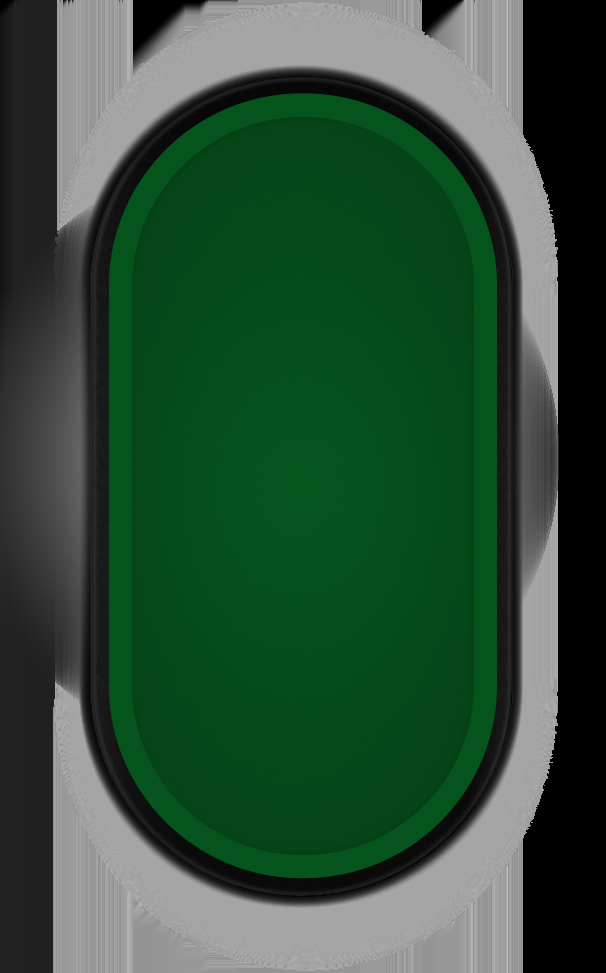
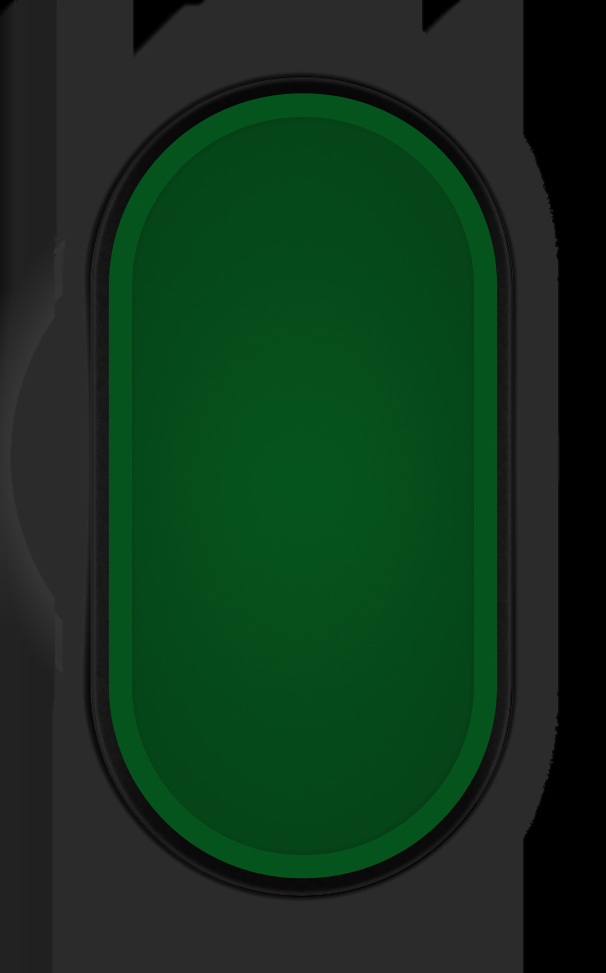
UI: remove metallic rim, revert to best YOLO-scoring layout
Removed metallic rim from table_portrait.png via OpenCV.
Reverted index.html to highest-scoring YOLO version (mobile_fix12).
Bot detection module and training scripts included.

Changed region(s): [[0.0594, 0.0, 0.9208, 1.0]]

diff --git a/client/table.js b/client/table.js
@@ -333,6 +333,7 @@ function render() {
       div.onclick = () => seatClick(i);
     } else {
       if (s.folded) div.classList.add("folded");
+      if (s.stack === 0 && !s.allIn) div.classList.add("zero-stack");
       if (handActive && hand.actionSeat === i) div.classList.add("active");
       // Status handled inline now (dealer button, ALL IN, FOLD)
 
@@ -406,7 +407,9 @@ function render() {
   // Board — show during active hand, or hold showdown board after completion
   const board = (handActive && hand) ? hand.board : (showdownBoard || []);
   let boardHtml = "";
-  for (let i = 0; i < 5; i++) boardHtml += board[i] ? cardHtml(board[i]) : '<span class="card empty-slot"></span>';
+  for (let i = 0; i < 5; i++) {
+    if (board[i]) boardHtml += cardHtml(board[i]);
+  }
   document.getElementById("board").innerHTML = boardHtml;
   document.getElementById("pot").textContent = handActive && hand.pot > 0 ? `Pot: ${c$(hand.pot)}` : "";
   document.getElementById("phase").textContent = handActive ? hand.phase : (showdownReveals ? "SHOWDOWN" : "");
